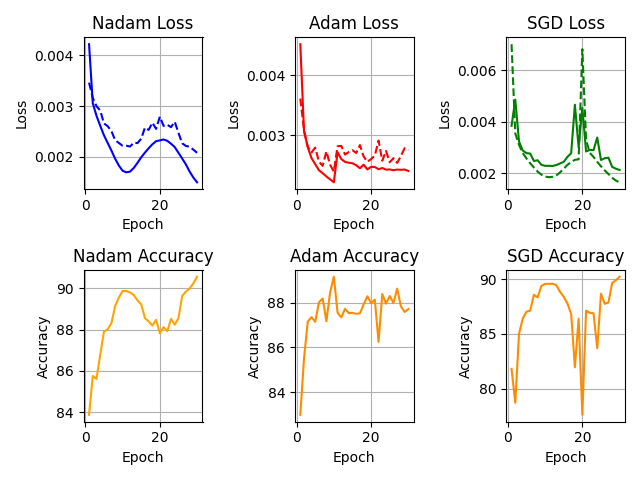
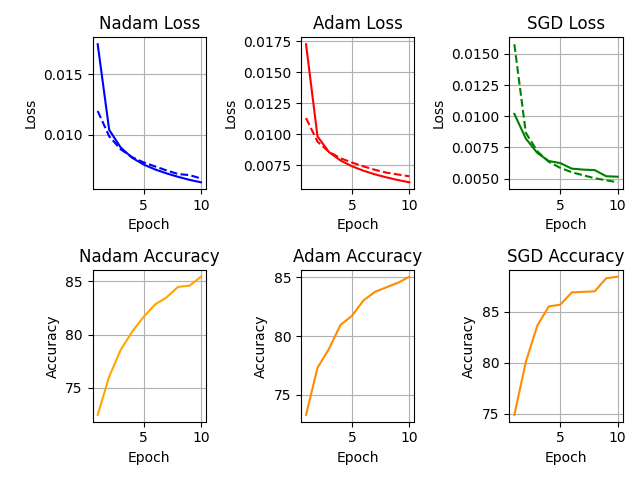
asdasd

diff --git a/asg1/src/Case 2/regulzarize.py b/asg1/src/Case 2/regulzarize.py
@@ -9,7 +9,8 @@ import numpy as np
 from prettytable import PrettyTable
 
 #Global epochs
-n_epochs = 30
+n_epochs = 10
+
 
 seed = 42
 torch.manual_seed(seed)
@@ -29,7 +30,7 @@ print("number of training samples: " + str(len(train_dataset)) + "\n" +
 print("datatype of the 1st training sample: ", train_dataset[0][0].type())
 print("size of the 1st training sample: ", train_dataset[0][0].size())
 
-batch_size = 128
+batch_size = 64
 
 # Create data loaders.
 train_loader = torch.utils.data.DataLoader(dataset=train_dataset, batch_size=batch_size, shuffle=True)
@@ -90,10 +91,10 @@ print(fc12_params[1].numel())
 
 # Training loop
 criterion = nn.CrossEntropyLoss()
-optimizer = optim.SGD(model_SGD.parameters(), lr=0.8,weight_decay= 0.001)
+optimizer = optim.SGD(model_SGD.parameters(), lr=0.2)
 swa_model_swg  = optim.swa_utils.AveragedModel(model_SGD)
-scheduler_SWG = optim.lr_scheduler.CosineAnnealingLR(optimizer,T_max= 10)
-
+scheduler_SWG = optim.lr_scheduler.ExponentialLR(optimizer,gamma= 0.9)
+scheduler_SWG2 = optim.lr_scheduler.CosineAnnealingLR(optimizer,T_max=10)
 
 train_losses = []
 test_losses = []
@@ -110,7 +111,8 @@ for epoch in range(n_epochs):
         loss.backward()
         optimizer.step()
         step += 1
-    scheduler_SWG.step()
+    #scheduler_SWG.step()
+    #scheduler_SWG2.step()
     swa_model_swg.update_parameters(model_SGD)
     train_loss /= len(train_loader.dataset)
     train_losses.append((step, train_loss))
@@ -184,10 +186,10 @@ print(fc12_params[1].numel())
 
 # Training loop
 criterion = nn.CrossEntropyLoss()
-optimizer_adam = optim.Adam(model.parameters(), lr=0.007,weight_decay= 0.001)
+optimizer_adam = optim.AdamW(model.parameters(), lr=0.0001)
 swa_model_adam  = optim.swa_utils.AveragedModel(model)
-scheduler = optim.lr_scheduler.ConstantLR(optimizer_adam,factor= 0.45,total_iters= 10)
-
+scheduler = optim.lr_scheduler.CosineAnnealingLR(optimizer_adam, T_max= 30)
+scheduler2 = optim.lr_scheduler.ExponentialLR(optimizer_adam,gamma= 0.7)
 
 train_losses_adam = []
 test_losses_adam = []
@@ -204,8 +206,9 @@ for epoch in range(n_epochs):
         loss.backward()
         optimizer_adam.step()
         step += 1
-    scheduler.step()
-    swa_model_adam.update_parameters(model)
+    #scheduler.step()
+    #scheduler2.step()
+    #swa_model_adam.update_parameters(model)
     train_loss_adam /= len(train_loader.dataset)
     train_losses_adam.append((step, train_loss_adam))
     print(f'Epoch {epoch}, Step {step}, Loss: {loss.item()}')
@@ -279,9 +282,11 @@ print(fc12_params[1].numel())
 
 # Training loop
 criterion = nn.CrossEntropyLoss()
-optimizer_nadam = optim.NAdam(model_na.parameters(), lr= 0.007,momentum_decay= 0.01, weight_decay= 0.001) 
+optimizer_nadam = optim.NAdam(model_na.parameters(), lr= 0.0001,momentum_decay= 0.01) 
 swa_model  = optim.swa_utils.AveragedModel(model_na)
-scheduler_Nadam = optim.lr_scheduler.CosineAnnealingLR(optimizer_nadam,T_max= 10)
+scheduler_Nadam = optim.lr_scheduler.ExponentialLR(optimizer_nadam,gamma= 0.8)
+scheduler3 = optim.lr_scheduler.CosineAnnealingLR(optimizer_nadam,T_max=10 )
+scheduler4 = optim.lr_scheduler.PolynomialLR(optimizer_nadam,total_iters= 10)
 train_losses_nadam = []
 test_losses_nadam = []
 ac_na = []
@@ -297,8 +302,10 @@ for epoch in range(n_epochs):
         loss.backward()
         optimizer_nadam.step()
         step += 1
-    scheduler_Nadam.step()
-    swa_model.update_parameters(model_na)
+    #scheduler3.step()
+    #scheduler_Nadam.step()
+    #scheduler4.step()
+    #swa_model.update_parameters(model_na)
     train_loss_nadam /= len(train_loader.dataset)
     train_losses_nadam.append((step, train_loss_nadam))
     print(f'Epoch {epoch}, Step {step}, Loss: {loss.item()}')
